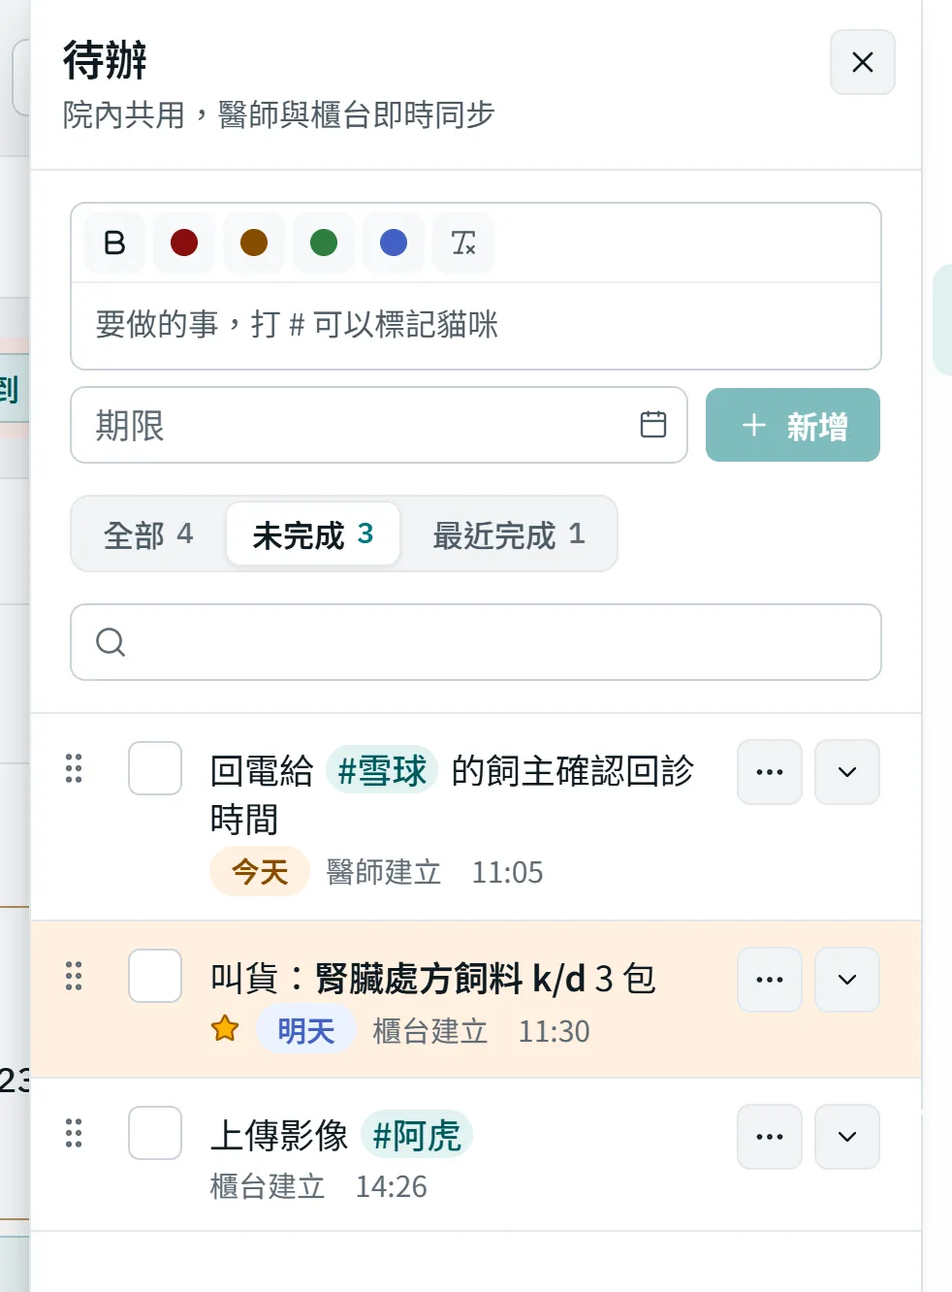
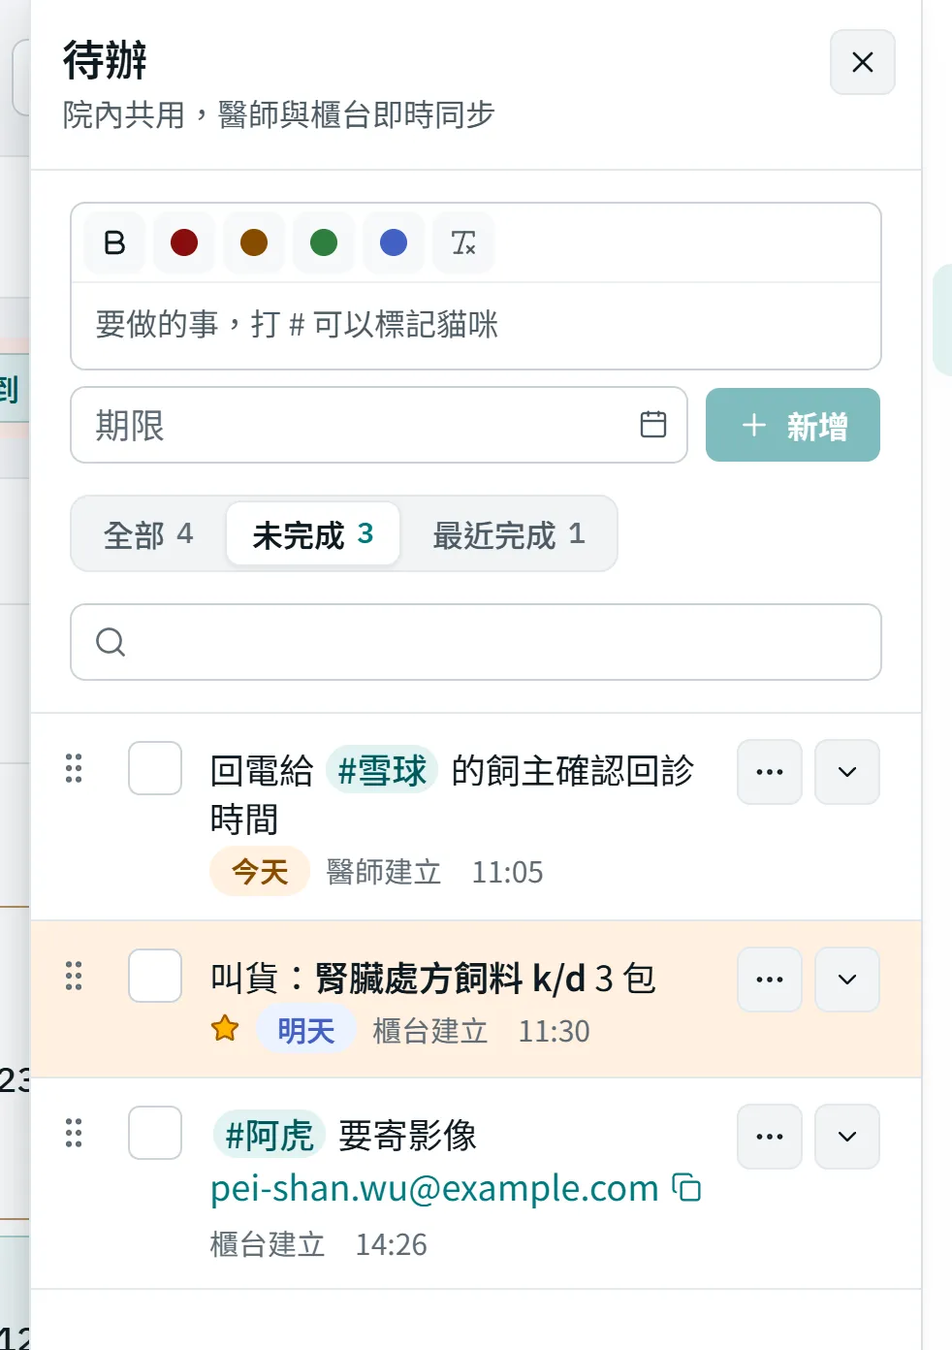
refactor(client): add manual scripts and fixtures for UI screenshot generation

diff --git a/client/src/components/TodoPanel.vue b/client/src/components/TodoPanel.vue
@@ -2,11 +2,12 @@
 import { useClientPagination } from '../composables/useClientPagination';
 import { apiErrorMessage } from '../lib/apiError.js';
 import { computed, nextTick, onBeforeUnmount, ref, watch } from 'vue';
-import { Check, ChevronDown, CornerDownRight, GripVertical, ListTodo, Pencil, Plus, Search, Star, Trash2 } from '@lucide/vue';
+import { Check, ChevronDown, Copy, CornerDownRight, GripVertical, ListTodo, Pencil, Plus, Search, Star, Trash2 } from '@lucide/vue';
 import { useTodosStore } from '../stores/todos';
 import { usePinnedPetsStore } from '../stores/pinnedPets';
 import { useStaffIdentity } from '../composables/useStaffIdentity';
 import { useToast } from '../composables/useToast';
+import { useCopy } from '../composables/useCopy';
 import { clinicDateInput, formatDateTime } from '../lib/datetime';
 import { mentionsStillInContent, splitMentionSegments } from '../lib/chatMentions';
 import { DUE_TONE_CLASS, dueStatus, todoMatches } from '../lib/todoDisplay';
@@ -32,6 +33,7 @@ const store = useTodosStore();
 const pinned = usePinnedPetsStore();
 const { identity } = useStaffIdentity();
 const toast = useToast();
+const { copyEmail } = useCopy();
 // KeepAlive 會讓面板跨日掛著，「今天」每次用到才算，不在掛載時存一份。
 const timeOptions = { hour: '2-digit', minute: '2-digit', hour12: false };
 const dateTimeOptions = { month: 'numeric', day: 'numeric', ...timeOptions };
@@ -366,7 +368,21 @@ async function saveEdit(item) {
           <!-- 標籤緊貼標籤寫在同一行：RichText 是 whitespace-pre-wrap，標籤之間多一個換行就會多一個空格。
                RichText 先把粗體／顏色拆成片段，每個片段裡再把 #名字 換成可點的貓咪標籤（點了開病歷速覽）；
                petId 是 null 代表貓咪資料已被刪除，只留下當時的名字、不可點。 -->
-          <RichText v-slot="{ text }" tag="p" :text="item.content" class="pt-1 text-base leading-snug" :class="item.status === 'done' ? 'text-muted-foreground line-through' : ''"><template v-for="(segment, index) in splitMentionSegments(text, item.mentions)" :key="index"><button v-if="segment.type === 'mention' && segment.mention.petId" type="button" class="mx-0.5 inline-flex items-center rounded-full bg-accent px-1.5 font-medium text-accent-foreground underline-offset-2 hover:underline focus-visible:outline-none focus-visible:ring-2 focus-visible:ring-primary/50" v-tip="segment.mention.ownerName ? `飼主：${segment.mention.ownerName}` : undefined" @click="pinned.openQuickView(segment.mention.petId)">#{{ segment.mention.petName }}</button><span v-else-if="segment.type === 'mention'" class="text-muted-foreground" v-tip="'貓咪資料已刪除'">#{{ segment.mention.petName }}</span><template v-else>{{ segment.text }}</template></template></RichText>
+          <!-- 「#貓咪名 要寄影像 email」：掛號「上傳影像」帶出來的待辦，飼主 Email（伺服器即時查）接在內文同一行，
+               整串字就是複製鈕，點一下複製；同一行放不下時整串換到下一行。 -->
+          <div class="flex flex-wrap items-baseline gap-x-2">
+          <RichText v-slot="{ text }" tag="p" :text="item.content" class="min-w-0 pt-1 text-base leading-snug" :class="item.status === 'done' ? 'text-muted-foreground line-through' : ''"><template v-for="(segment, index) in splitMentionSegments(text, item.mentions)" :key="index"><button v-if="segment.type === 'mention' && segment.mention.petId" type="button" class="mx-0.5 inline-flex items-center rounded-full bg-accent px-1.5 font-medium text-accent-foreground underline-offset-2 hover:underline focus-visible:outline-none focus-visible:ring-2 focus-visible:ring-primary/50" v-tip="segment.mention.ownerName ? `飼主：${segment.mention.ownerName}` : undefined" @click="pinned.openQuickView(segment.mention.petId)">#{{ segment.mention.petName }}</button><span v-else-if="segment.type === 'mention'" class="text-muted-foreground" v-tip="'貓咪資料已刪除'">#{{ segment.mention.petName }}</span><template v-else>{{ segment.text }}</template></template></RichText>
+          <button
+            v-if="item.ownerEmail"
+            type="button"
+            class="inline-flex max-w-full items-center gap-1.5 rounded-md text-base text-primary hover:underline focus-visible:outline-none focus-visible:ring-2 focus-visible:ring-primary/50"
+            :aria-label="`複製飼主 Email：${item.ownerEmail}`"
+            @click="copyEmail(item.ownerEmail)"
+          >
+            <span class="min-w-0 truncate">{{ item.ownerEmail }}</span>
+            <Copy class="size-4 shrink-0" stroke-width="1.75" aria-hidden="true" />
+          </button>
+          </div>
 
           <!-- 時間這一行：星號（標了才畫）、「處理中」（未完成而寫了處理過程；info＝還在進行的狀態）、期限、建立／完成。 -->
           <p class="flex flex-wrap items-center gap-2 text-xs text-subtle-foreground">
@@ -375,6 +391,7 @@ async function saveEdit(item) {
             <Badge v-if="item.status === 'open' && dueStatus(item.dueDate, clinicDateInput())" variant="status" :class="DUE_TONE_CLASS[dueStatus(item.dueDate, clinicDateInput()).tone]">{{ dueStatus(item.dueDate, clinicDateInput()).label }}</Badge>
             {{ metaLabel(item) }}
           </p>
+
 
           <!-- 已完成的處理過程純展示：不能展開、不能改，直接寫在時間行下面（改回未完成才又能編輯）。 -->
           <p v-if="item.status === 'done' && item.progress" class="flex items-start gap-1.5 pt-1 text-sm text-muted-foreground">

diff --git a/docs/manual/index.html b/docs/manual/index.html
@@ -476,7 +476,7 @@ footer.end { color: var(--subtle); font-size: 14px; text-align: center; }
           <li><span class="ui">稍後處理</span> 只是關掉視窗，什麼都不改。</li>
         </ul></div></div>
         <div class="row auto"><span class="who auto">系統自動</span><div><ul>
-          <li><strong>勾「上傳影像」</strong>：先記在視窗裡，按 <span class="ui">完成處理</span> 時才一起送出（按 <span class="ui">稍後處理</span> 關掉就不算）。送出後新增一筆待辦「上傳影像 #貓咪名」，病歷日誌多一列「上傳影像：是」。那筆待辦被完成時，日誌改成「已完成」加完成時間。取消勾選會把還沒完成的待辦收掉，日誌改成「否」。</li>
+          <li><strong>勾「上傳影像」</strong>：先記在視窗裡，按 <span class="ui">完成處理</span> 時才一起送出（按 <span class="ui">稍後處理</span> 關掉就不算）。送出後新增一筆待辦「#貓咪名 要寄影像」，後面接著飼主的 Email（點一下複製），病歷日誌多一列「上傳影像：是」。那筆待辦被完成時，日誌改成「已完成」加完成時間。取消勾選會把還沒完成的待辦收掉，日誌改成「否」。</li>
           <li><strong>約回診</strong>：同時建立下一筆掛號（回診）。之後要改時段，在已約好的回診上按 <span class="ui">修改</span>。這筆回診被取消或刪掉時，這次看診會回到「待安排回診」，可以重新約。保證金規則跟一般掛號一樣。</li>
           <li><strong>完成處理</strong>：收回號碼牌，這次看診結束並鎖定，聊天室通知。</li>
         </ul></div></div>
@@ -696,7 +696,7 @@ footer.end { color: var(--subtle); font-size: 14px; text-align: center; }
         </figure>
         <figure class="shot">
           <div class="frame"><img src="images/18-todos.webp" alt="院內待辦：拖拉排序、星號、期限、上傳影像待辦" loading="lazy"></div>
-          <figcaption>院內待辦：「上傳影像 #阿虎」是勾選框自動新增的</figcaption>
+          <figcaption>院內待辦：「#阿虎 要寄影像」是勾選框自動新增的，後面附飼主 Email</figcaption>
         </figure>
       </div>
       <h3>聊天</h3>
@@ -717,6 +717,7 @@ footer.end { color: var(--subtle); font-size: 14px; text-align: center; }
         <li>可以設期限。勾起來＝完成，取消勾選＝改回未完成。</li>
         <li>每列最右邊的 <span class="ui">˅</span> 展開「處理過程」，一行一筆接著寫（例如「10/12 打過沒接」「10/13 已回電，飼主下週二來」）。有寫的會標「處理中」，做完再勾掉。勾掉之後處理過程只能看、不能再改（改回未完成才能改）。</li>
         <li>星號、編輯、刪除在每列的 <span class="ui">⋯</span> 裡。</li>
+        <li>「#貓咪名 要寄影像」這種待辦，同一行後面會附飼主的 Email，點一下就複製，貼到信件或通訊軟體即可。飼主沒填 Email 就不會出現。</li>
         <li>上面的搜尋框可以找內文、處理過程、標記的貓咪名字；已完成的會查全部的歷史，不只最近 50 筆。</li>
         <li><span class="who auto">系統自動</span> 櫃台勾「上傳影像」並完成處理會新增一筆；完成它，那次看診的病歷日誌會記下完成時間。</li>
       </ul>

diff --git a/server/src/routes/todos.test.js b/server/src/routes/todos.test.js
@@ -6,6 +6,7 @@ import { app } from '../app.js';
 import Pet from '../models/Pet.js';
 import Todo from '../models/Todo.js';
 import Appointment from '../models/Appointment.js';
+import Owner from '../models/Owner.js';
 import { isValidDateInput, sortOpenTodos } from '../lib/todos.js';
 
 const todoId = '64b000000000000000000010';
@@ -13,7 +14,11 @@ const petId = '64b000000000000000000001';
 const jsonHeaders = { 'content-type': 'application/json' };
 
 // 清單查詢走 find().sort().limit()[.select().session()].lean()（拖拉排序在 transaction 裡讀同一份清單）。
-function mockList(open = [], done = []) {
+// links：掛號「上傳影像」帶出待辦的連結，listTodos 會由此查到飼主 Email（預設沒有）。
+function mockList(open = [], done = [], links = { appointments: [], owners: [] }) {
+  const chain = (rows) => { const query = { lean: async () => rows }; query.select = () => query; return query; };
+  Appointment.find = () => chain(links.appointments);
+  Owner.find = () => chain(links.owners);
   Todo.find = (filter) => {
     const query = { lean: async () => (filter.status === 'open' ? open : done) };
     query.select = () => query;
@@ -99,6 +104,27 @@ describe('todos routes', () => {
     const response = await fetch(`${origin}/api/todos`);
     assert.equal(response.status, 200);
     assert.deepEqual((await response.json()).items.map((item) => item._id), ['o1', 'o2', 'd1']);
+  });
+
+  it('GET 上傳影像待辦附飼主 Email（即時查，沒有 Email 或沒連到掛號的不帶）', async () => {
+    const owner = '64b0000000000000000000b1';
+    const noEmailOwner = '64b0000000000000000000b2';
+    mockList(
+      [
+        { _id: 'u1', status: 'open', content: '上傳影像', createdAt: '2026-09-01T00:00:00Z' },
+        { _id: 'u2', status: 'open', content: '上傳影像', createdAt: '2026-09-02T00:00:00Z' },
+        { _id: 'u3', status: 'open', content: '叫貨', createdAt: '2026-09-03T00:00:00Z' },
+      ],
+      [],
+      {
+        appointments: [{ imageUploadTodoId: 'u1', ownerId: owner }, { imageUploadTodoId: 'u2', ownerId: noEmailOwner }],
+        owners: [{ _id: owner, email: 'wang@example.com' }, { _id: noEmailOwner }],
+      }
+    );
+    const items = (await (await fetch(`${origin}/api/todos`)).json()).items;
+    assert.equal(items.find((item) => item._id === 'u1').ownerEmail, 'wang@example.com');
+    assert.equal('ownerEmail' in items.find((item) => item._id === 'u2'), false);
+    assert.equal('ownerEmail' in items.find((item) => item._id === 'u3'), false);
   });
 
   it('POST 建立待辦：內容去空白、# 標記的名字快照由伺服器查、重複的 id 只算一次', async () => {

diff --git a/server/src/lib/todos.js b/server/src/lib/todos.js
@@ -1,4 +1,6 @@
 import Todo from '../models/Todo.js';
+import Appointment from '../models/Appointment.js';
+import Owner from '../models/Owner.js';
 import { emitTodosUpdate } from './realtime.js';
 import { withTransaction } from './transaction.js';
 import { escapeRegExp } from './regex.js';
@@ -25,7 +27,26 @@ export async function listTodos() {
     openTodosQuery().lean(),
     Todo.find({ status: 'done' }).sort({ doneAt: -1, _id: -1 }).limit(MAX_DONE_TODOS).lean(),
   ]);
-  return [...sortOpenTodos(open), ...done];
+  return [...sortOpenTodos(await withOwnerEmails(open)), ...done];
+}
+
+// 掛號「上傳影像」帶出來的待辦要附飼主 Email（上傳影像時要寄給飼主）：即時由掛號查到飼主、
+// 讀他現在的 Email，不在待辦上存快照——飼主改了信箱，待辦上的也跟著對。沒有連到掛號、飼主沒填
+// Email 的待辦不帶 ownerEmail。只查未完成的：做完的不再需要。
+async function withOwnerEmails(rows) {
+  if (!rows.length) return rows;
+  const appointments = await Appointment.find({ imageUploadTodoId: { $in: rows.map((row) => row._id) } })
+    .select('imageUploadTodoId ownerId').lean();
+  const ownerIds = [...new Set(appointments.filter((a) => a.ownerId).map((a) => String(a.ownerId)))];
+  if (!ownerIds.length) return rows;
+  const owners = await Owner.find({ _id: { $in: ownerIds } }).select('email').lean();
+  const emailByOwner = new Map(owners.filter((o) => o.email).map((o) => [String(o._id), o.email]));
+  const emailByTodo = new Map();
+  for (const appointment of appointments) {
+    const email = emailByOwner.get(String(appointment.ownerId));
+    if (email) emailByTodo.set(String(appointment.imageUploadTodoId), email);
+  }
+  return rows.map((row) => (emailByTodo.has(String(row._id)) ? { ...row, ownerEmail: emailByTodo.get(String(row._id)) } : row));
 }
 
 // 搜尋已完成的待辦：不限最近 50 筆，翻得到全部歷史（「上次叫 k/d 是哪天」）。

diff --git a/server/src/lib/imageUploadTodo.js b/server/src/lib/imageUploadTodo.js
@@ -4,13 +4,14 @@ import { emitAppointmentUpdate } from './realtime.js';
 import { mentionSnapshots } from './petMentions.js';
 import { escapeRichText } from '../../../shared/richText.js';
 
-export const IMAGE_UPLOAD_LABEL = '上傳影像';
+export const IMAGE_UPLOAD_LABEL = '要寄影像';
 
-// 待辦內文：「上傳影像 #貓咪名」，貓咪用 # 標記（跟手動打的待辦同一套，點得進病歷速覽）。
+// 待辦內文：「#貓咪名 要寄影像」，貓咪用 # 標記（跟手動打的待辦同一套，點得進病歷速覽）。
+// 飼主 Email 不寫進內文：面板在同一行即時帶出飼主現在的信箱（lib/todos.js 的 withOwnerEmails）。
 // 貓咪名是資料，不是格式標記，先跳脫。
 export function imageUploadTodoContent(petName) {
   const name = String(petName ?? '').trim();
-  return name ? `${IMAGE_UPLOAD_LABEL} #${escapeRichText(name)}` : IMAGE_UPLOAD_LABEL;
+  return name ? `#${escapeRichText(name)} ${IMAGE_UPLOAD_LABEL}` : IMAGE_UPLOAD_LABEL;
 }
 
 // 櫃台處理視窗的「上傳影像」勾選框變動時呼叫（勾起來或取消，值沒變不要呼叫）：

diff --git a/server/src/lib/imageUploadTodo.test.js b/server/src/lib/imageUploadTodo.test.js
@@ -36,7 +36,7 @@ test('restoreImageUploadTodo does nothing unless ticked and the todo was withdra
 });
 
 test('the todo names the cat with a # mention, escaping markup characters in the name', () => {
-  assert.equal(imageUploadTodoContent('豆豆'), '上傳影像 #豆豆');
-  assert.equal(imageUploadTodoContent('*星星*'), String.raw`上傳影像 #\*星星\*`);
-  assert.equal(imageUploadTodoContent(''), '上傳影像');
+  assert.equal(imageUploadTodoContent('豆豆'), '#豆豆 要寄影像');
+  assert.equal(imageUploadTodoContent('*星星*'), String.raw`#\*星星\* 要寄影像`);
+  assert.equal(imageUploadTodoContent(''), '要寄影像');
 });

diff --git a/client/src/composables/useCopy.js b/client/src/composables/useCopy.js
@@ -12,6 +12,7 @@ export function useCopy() {
 
   return {
     copyPhone: (phone) => copy(phone, { copied: '已複製電話', failed: '無法複製，請手動選取電話' }),
+    copyEmail: (email) => copy(email, { copied: '已複製 Email', failed: '無法複製，請手動選取 Email' }),
     copyIntakeCode: (code) => copy(code, { copied: '已複製驗證碼', failed: '無法複製，請手動抄下驗證碼' }),
   };
 }

diff --git a/docs/STYLE_GUIDE.md b/docs/STYLE_GUIDE.md
@@ -218,7 +218,7 @@ DataCard title="貓咪清單" :count
 
 ### 其他
 
-- **待辦**：完成是勾選框（`ui/checkbox`，面板 28px、總覽 24px——20px 難點），勾起來內文槓掉，取消勾選＝改回未完成。每列右邊固定兩顆（`secondary`、36px）：`RowActions`「⋯」（標星號／取消星號、編輯、刪除）與最右邊的手風琴展開鈕（`ChevronDown`，展開時轉 180°）。**處理過程用手風琴**：收合時列上只有內文與時間行，一次只展開一筆；展開區從內文那一欄延伸到最右邊、`bg-sunken` 圓角框，裡面直接是可編輯的多行欄位（`Label`「處理過程」＋`Textarea`，「收起」「儲存」`sm` 靠右；Ctrl＋Enter 儲存、Esc 收起）。未完成而寫了處理過程，時間行出「處理中」徽章（`info`，還在進行的狀態）。**已完成的處理過程純展示**：沒有展開鈕，內容直接寫在時間行下面（`CornerDownRight` 開頭、`text-muted-foreground`，換行保留）。星號標上後**整列換成 `bg-warning-surface`**、時間行最前面一顆亮黃星（`star` token 填色＋`star-outline` 外框，淺色時外框深一階、淡橙底上才看得出輪廓），只有未完成的列有；星號是標記不是流程動作，也不影響順序。編輯內文時輸入框連同按鈕那一欄一起佔滿，「取消」「儲存」（`sm`）放在輸入框下面靠右，右邊兩顆先收起來。頁籤下方一條搜尋框（內文、處理過程、#貓咪名字）；搜尋時第三格頁籤叫「已完成」（查全部歷史），不搜尋時叫「最近完成」，搜尋中不能拖拉。順序靠拖拉：未完成的列最左邊一欄是把手（`GripVertical`，28px），按住上下拖，被拖的列浮起來（`bg-card`＋陰影＋`border-strong` 框）、其他列讓位；把手是「抓的地方」不是按鈕，所以是全站唯一靜止時沒有底色的可點元件（滑過才出 `bg-hover`）。把手 focus 時方向鍵一格一格移（可以跨頁）。拖拉一律用 `composables/useDragReorder.js`（pointer events，平板也能拖；把手要 `touch-none`）。待辦輸入框的格式工具列放上方（單行輸入框塞不下）。
+- **待辦**：完成是勾選框（`ui/checkbox`，面板 28px、總覽 24px——20px 難點），勾起來內文槓掉，取消勾選＝改回未完成。每列右邊固定兩顆（`secondary`、36px）：`RowActions`「⋯」（標星號／取消星號、編輯、刪除）與最右邊的手風琴展開鈕（`ChevronDown`，展開時轉 180°）。**處理過程用手風琴**：收合時列上只有內文與時間行，一次只展開一筆；展開區從內文那一欄延伸到最右邊、`bg-sunken` 圓角框，裡面直接是可編輯的多行欄位（`Label`「處理過程」＋`Textarea`，「收起」「儲存」`sm` 靠右；Ctrl＋Enter 儲存、Esc 收起）。未完成而寫了處理過程，時間行出「處理中」徽章（`info`，還在進行的狀態）。掛號「上傳影像」帶出來的待辦在內文同一行後面接飼主 Email（放不下時整串換行）：整串字是 `text-primary` 的複製鈕（尾巴一個 `Copy` 圖示，點了跳「已複製 Email」提示）。**已完成的處理過程純展示**：沒有展開鈕，內容直接寫在時間行下面（`CornerDownRight` 開頭、`text-muted-foreground`，換行保留）。星號標上後**整列換成 `bg-warning-surface`**、時間行最前面一顆亮黃星（`star` token 填色＋`star-outline` 外框，淺色時外框深一階、淡橙底上才看得出輪廓），只有未完成的列有；星號是標記不是流程動作，也不影響順序。編輯內文時輸入框連同按鈕那一欄一起佔滿，「取消」「儲存」（`sm`）放在輸入框下面靠右，右邊兩顆先收起來。頁籤下方一條搜尋框（內文、處理過程、#貓咪名字）；搜尋時第三格頁籤叫「已完成」（查全部歷史），不搜尋時叫「最近完成」，搜尋中不能拖拉。順序靠拖拉：未完成的列最左邊一欄是把手（`GripVertical`，28px），按住上下拖，被拖的列浮起來（`bg-card`＋陰影＋`border-strong` 框）、其他列讓位；把手是「抓的地方」不是按鈕，所以是全站唯一靜止時沒有底色的可點元件（滑過才出 `bg-hover`）。把手 focus 時方向鍵一格一格移（可以跨頁）。拖拉一律用 `composables/useDragReorder.js`（pointer events，平板也能拖；把手要 `touch-none`）。待辦輸入框的格式工具列放上方（單行輸入框塞不下）。
 - **總覽**：近 8 週健檢量是 CSS 長條（單一序列，只標最新一週），滑過整欄出 `Tooltip`（日期範圍＋份數；0 份那週也有 2px、整欄都滑得到）。
 - **聊天面板**標頭有「通知」鈕（自動通知開關），設定選單也有同一個入口——只放在設定選單裡找不到。
 - **藥單**：`/medications` 是清單頁模板（DataCard 分欄、一顆主要動作＋⋯），點貓咪整頁切到詳情；已確認的藥單是唯讀檢視、藥單內容放大（拿藥包逐項對照）。全頁版與工具欄面板（`compact`）是同一個 `MedicationWorkspace`，功能一致，依裝置身分決定預設頁籤與可用動作。

diff --git a/CLAUDE.md b/CLAUDE.md
@@ -103,7 +103,7 @@
 - `internalNote` 內部備註：只給院內看，不進病歷日誌與健檢報告。
 - `specialCareNote` 請轉告飼主：櫃台處理視窗最上面用警示樣式呈現。
 - `followUpRecommendation` 回診建議：醫師寫期間與原因，櫃台約下一次時預設帶進來院原因。
-- `imageUpload`（`null` 沒勾過／`true`／`false` 勾過又取消）：櫃台處理視窗的「上傳影像」。勾選先記在視窗裡，按完成處理時跟著送出（`complete` 帶 `imageUpload`，有變才帶）；勾了同一個 transaction 新增一筆待辦「上傳影像 #貓咪名」（`lib/imageUploadTodo.js`，id 記在 `imageUploadTodoId`），取消勾選收掉還沒完成的那筆；待辦完成時把時間寫回 `imageUploadDoneAt`，日誌顯示「已完成　10/9 14:32」。
+- `imageUpload`（`null` 沒勾過／`true`／`false` 勾過又取消）：櫃台處理視窗的「上傳影像」。勾選先記在視窗裡，按完成處理時跟著送出（`complete` 帶 `imageUpload`，有變才帶）；勾了同一個 transaction 新增一筆待辦「#貓咪名 要寄影像」（`lib/imageUploadTodo.js`，id 記在 `imageUploadTodoId`），取消勾選收掉還沒完成的那筆；待辦完成時把時間寫回 `imageUploadDoneAt`，日誌顯示「已完成　10/9 14:32」。
 
 交給櫃台之後，櫃台還能改 `visitNote`、`internalNote`、`imageUpload`（`DESK_EDITABLE_FIELDS`），其餘要醫師取回；櫃台完成處理後整組鎖定（從病歷日誌更正不受這個限制）。
 
@@ -188,6 +188,7 @@
 
 - **未完成清單完全照手動順序**（拖拉排序，`shared/todoOrder.js`）：期限、星號都不影響位置。`sortOrder` 沒有值時以建立時間（毫秒）代替，所以新增的在最下面；改回未完成換成當下時間、回到最下面。**這欄刻意不設 schema default**（Mongoose 讀出舊文件會補 default、下次 save 就寫進去，舊待辦一改就跳到最下面）。拖拉＝`POST /:id/move { beforeId }`（null＝最後），在 transaction 裡把整份未完成清單重新編號 0、1、2…；要排的那筆或 `beforeId` 已經不在未完成清單上回 409 附最新清單。
 - `GET /api/todos` 回未完成（上限 200，超過時留最新建立的）＋最近完成 50 筆；任何異動後整份重讀並廣播。
+- **「上傳影像」待辦附飼主 Email**：`listTodos` 對未完成的待辦用 `imageUploadTodoId` 反查掛號 → 飼主，即時帶回 `ownerEmail`（不在待辦上存快照，飼主改了信箱跟著對；沒連到掛號或飼主沒填的不帶這欄）。面板上 Email 接在內文同一行（「#貓咪名 要寄影像 email」，放不下時整串換行），整串字是複製鈕，點一下複製。Email 不寫進 `content`，所以內文不會因飼主改信箱而過時。飼主在別處改了 Email 不會觸發待辦廣播，下一次清單異動或重新整理才更新。
 - 搜尋：未完成的在前端比對（`lib/todoDisplay.js` 的 `todoMatches`）；已完成的走 `GET /api/todos/search?q=`，查全部歷史（不只最近 50 筆，最多 200 筆、新到舊）。兩邊比對同樣三處：去掉格式標記的內文、處理過程、`#` 標記的貓咪名字。搜尋中不能拖拉排序。
 
 ### textTemplates 文字模板
